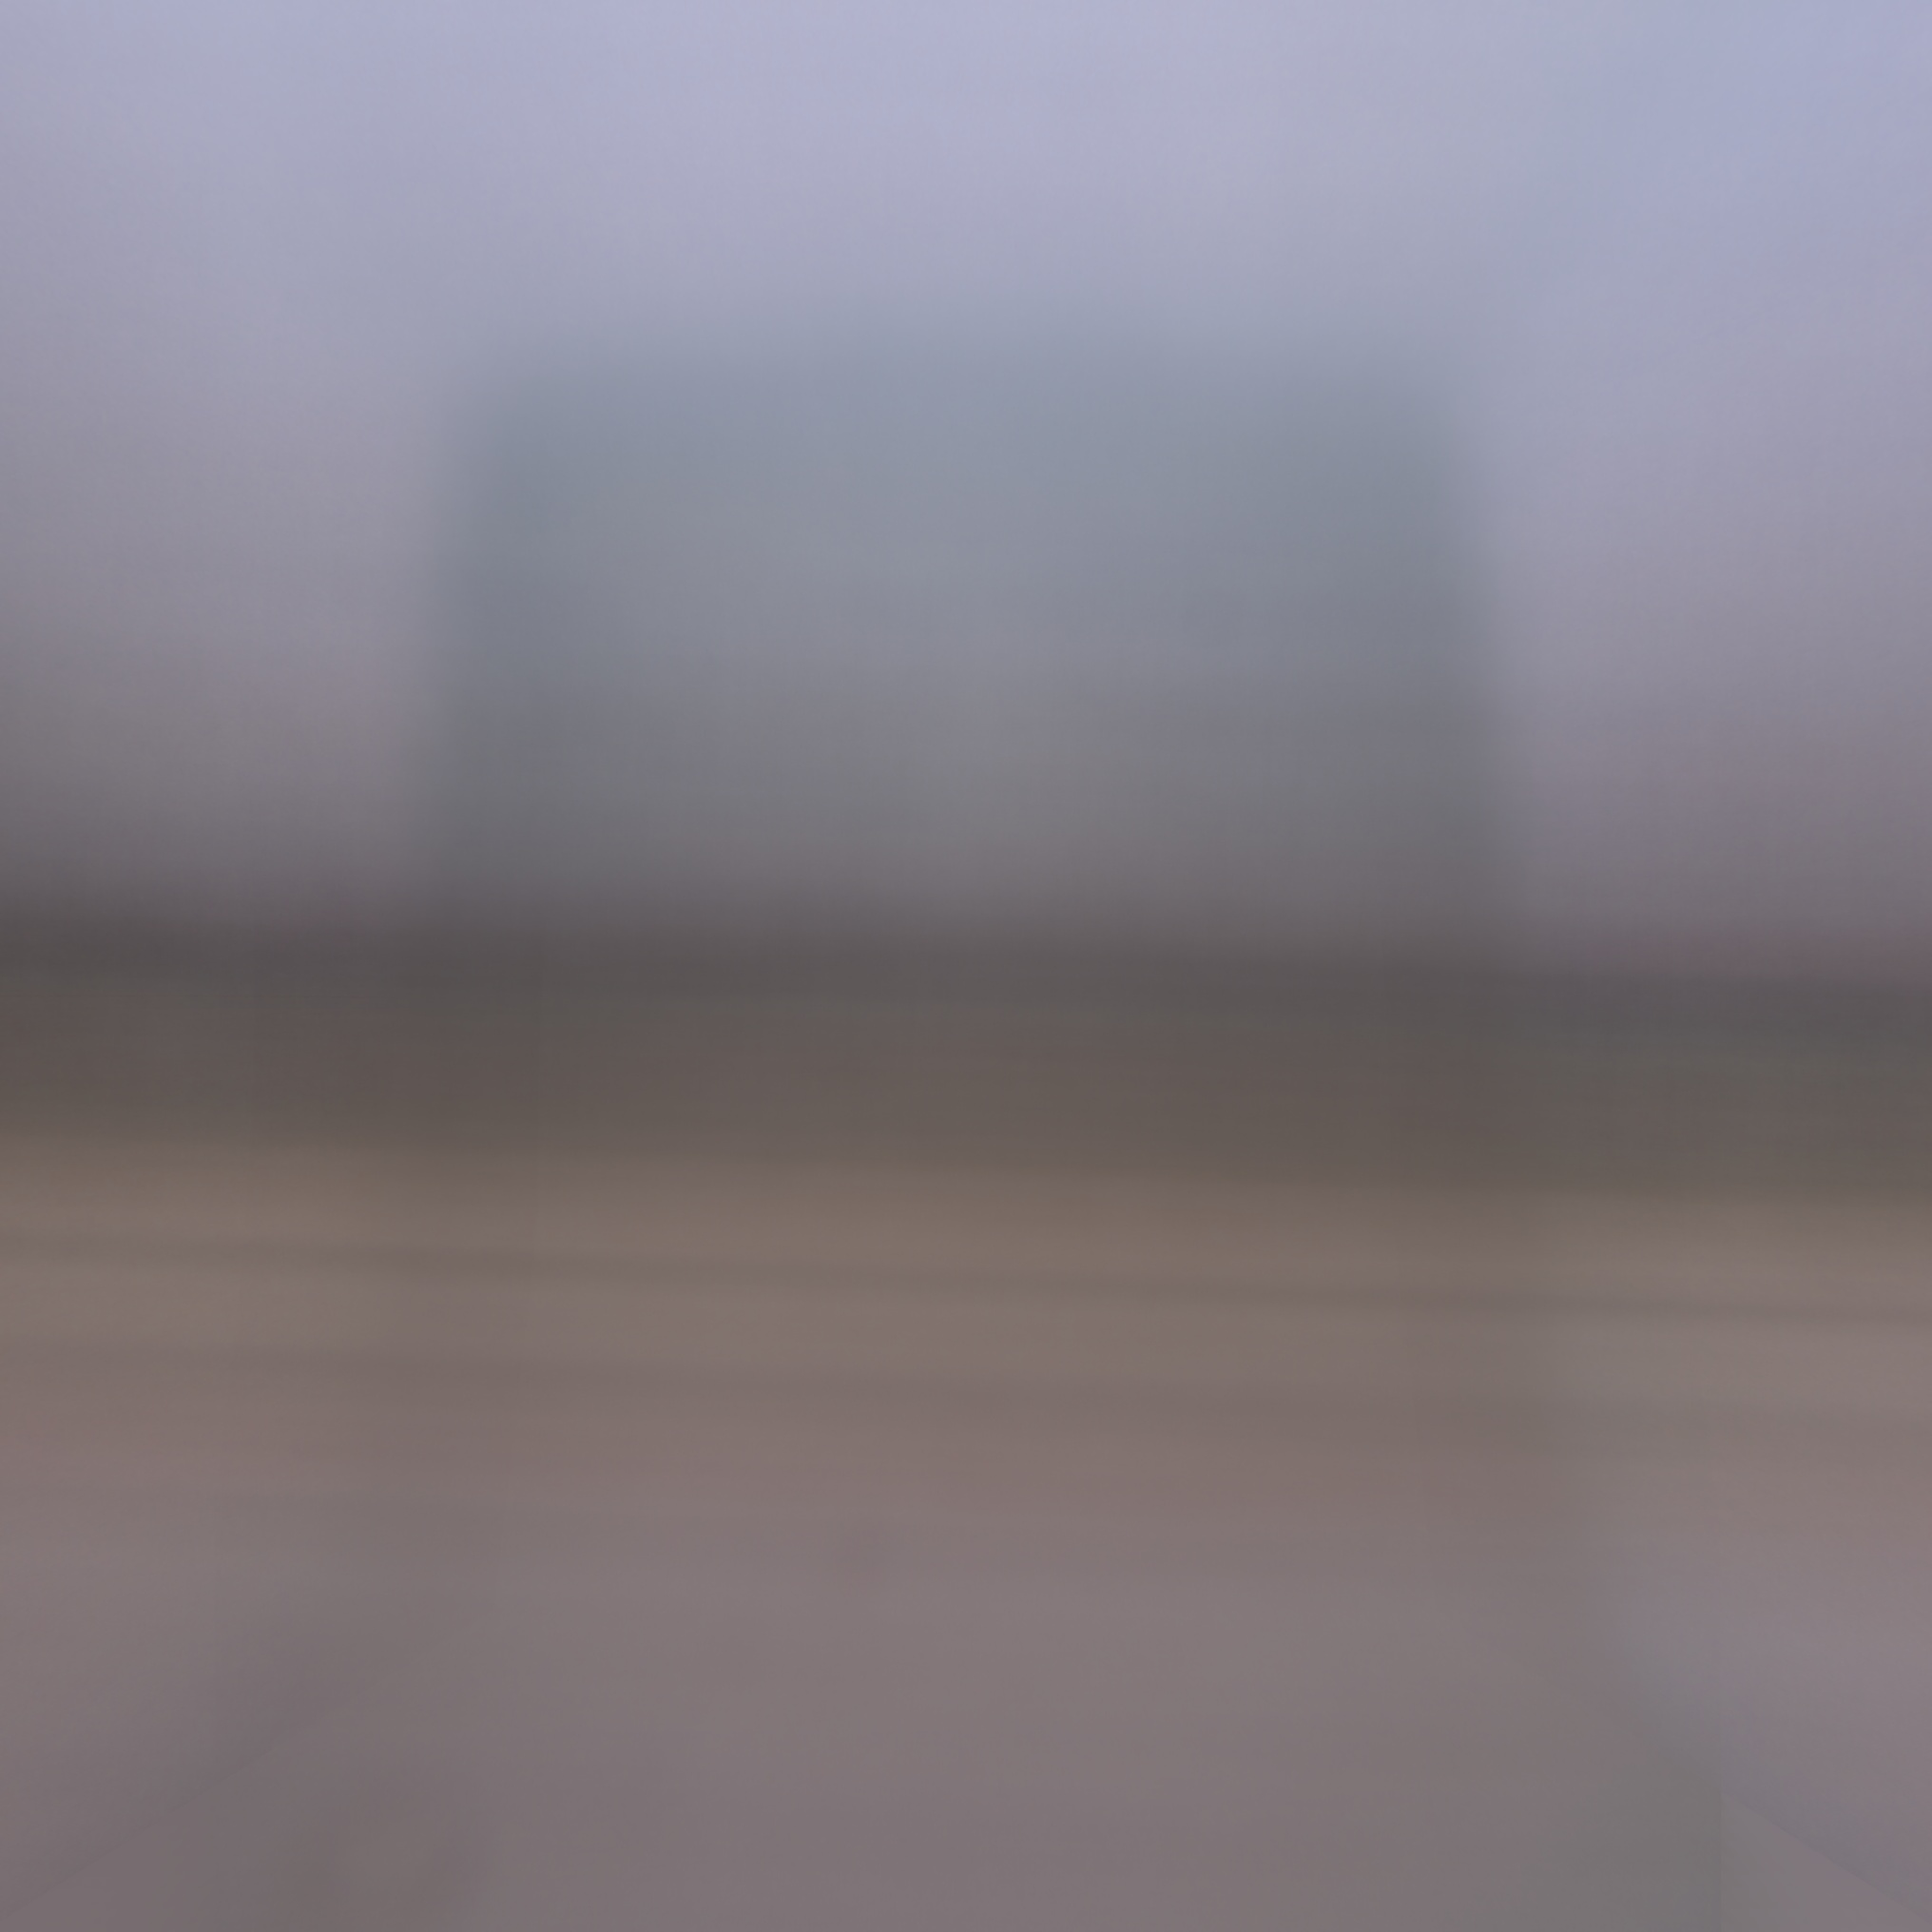
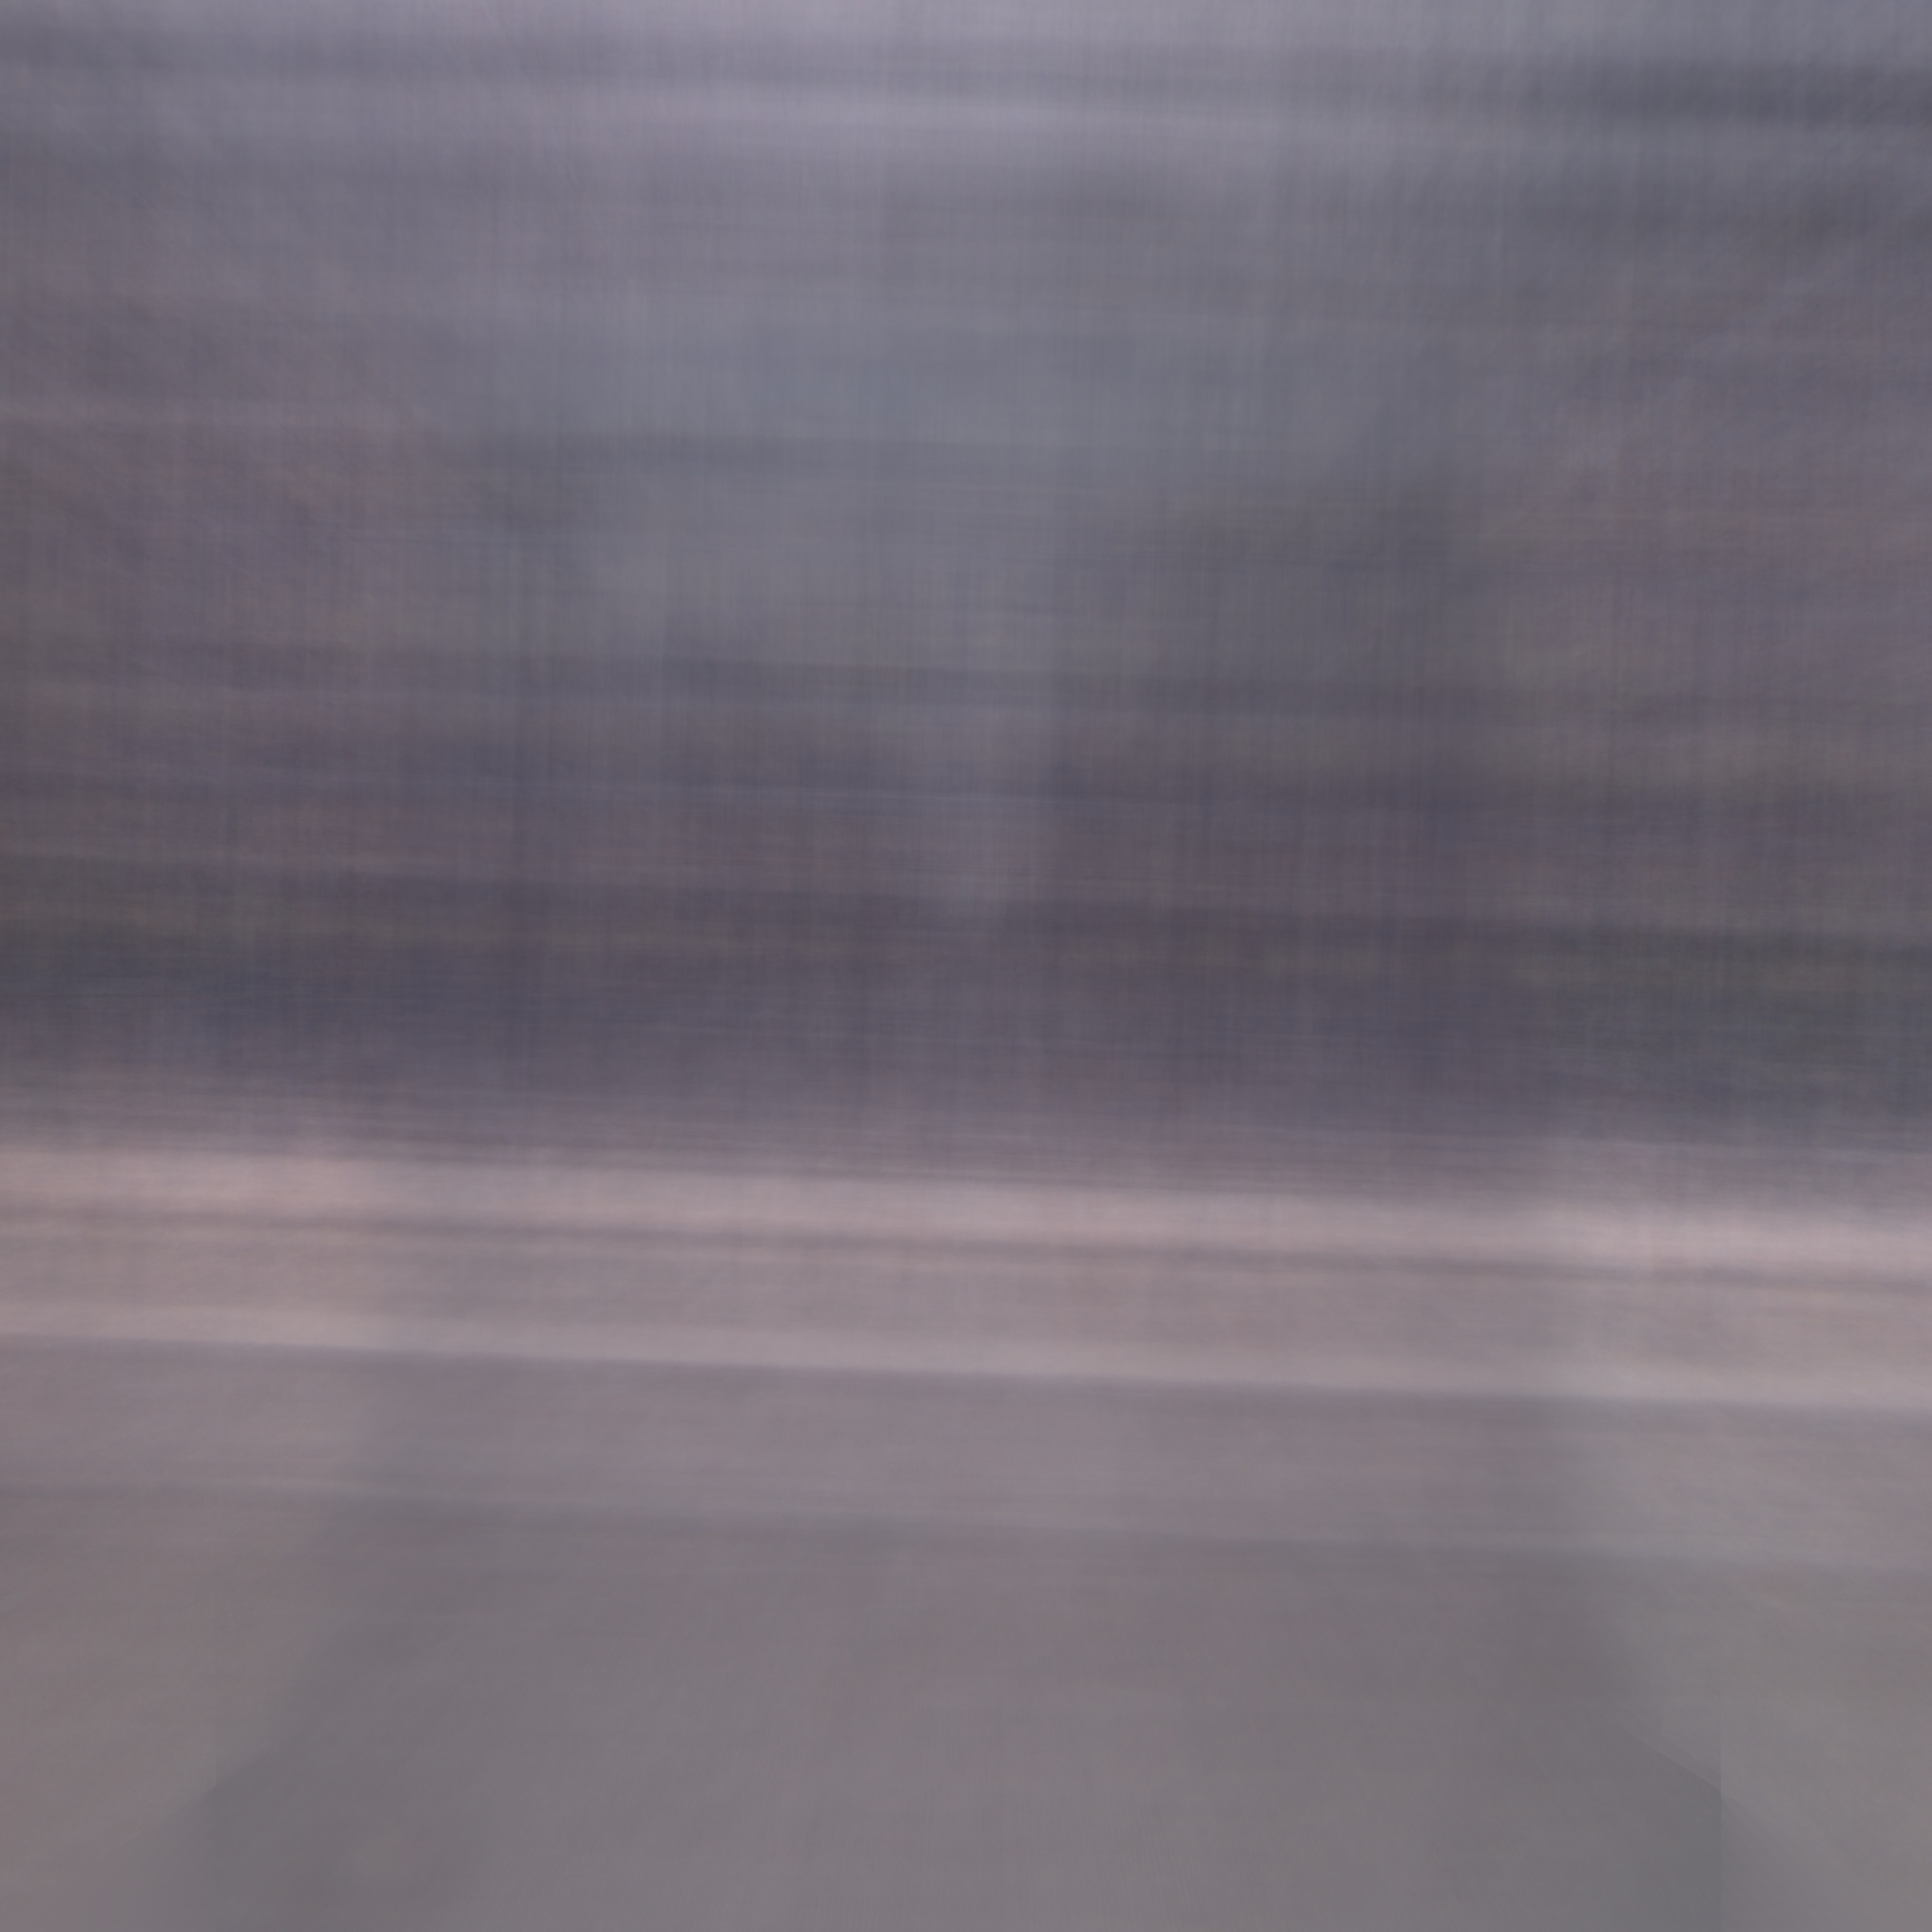
'gaussian'

diff --git a/code/average_img.py b/code/average_img.py
@@ -4,20 +4,26 @@ import numpy as np
 import matplotlib.pyplot as plt
 
 
-def average_image(path, shape, save):
+def average_image(path, shape, save, N):
+
     images = os.listdir(path)
     aggregate = np.zeros(shape)
     filename = 'average_img_cam' + path[-1] + '.jpg'
-    for image in images:
-        aggregate += cv2.imread(os.path.join(path, image), cv2.IMREAD_COLOR)
 
-    average = aggregate / len(images)
+    index = np.random.choice(len(images)-N, 1, replace=False)  # randomly sample N continuous photo from all images
+    # print(index)
+
+    for i in range(N):
+        aggregate += cv2.imread(os.path.join(path, images[index[0]+i]), cv2.IMREAD_COLOR)
+
+    average = aggregate / N
     cv2.imwrite(os.path.join(save, filename), average)
-
+    print('saved!')
 
 if __name__ == '__main__':
 
-    img_shape = (2032, 2032, 3)
+    img_shape = (2032, 2032, 3)  # shape of the image
+    num = 200  # number of samples to take
 
     # pls change to your own directory
     path_to_data = 'D:/Northwestern University/2020Spring/Geospatial Visualization/HW/HW1/data/'
@@ -28,4 +34,4 @@ if __name__ == '__main__':
     for cam in cams:
         path_to_cam = os.path.join(path_to_data, cam)
         # print(path_to_cam)
-        average_image(path_to_cam, img_shape, save_path)
+        average_image(path_to_cam, img_shape, save_path, num)

diff --git a/code/gaussian_blur.py b/code/gaussian_blur.py
@@ -1,0 +1,27 @@
+import cv2
+import matplotlib.pyplot as plt
+import os
+
+
+def gaussian_blur(path, k_size, sigma, save):
+    images = os.listdir(path)
+    i = 0
+    for image in images:
+        if image.endswith('.jpg'):
+            img = cv2.imread(os.path.join(path, image), cv2.IMREAD_COLOR)
+
+            img = cv2.GaussianBlur(img, k_size, sigma)
+            cv2.imwrite(os.path.join(save, f'gaussian_blur{i}.jpg'), img)
+            i += 1
+
+
+if __name__ == '__main__':
+    kernel_size = (5, 5)
+    sigma = 1
+
+    path_to_data = 'D:/Northwestern University/2020Spring/Geospatial ' \
+                   'Visualization/HW/HW1/Smear-Detection/results/average_image'
+    save_path = 'D:/Northwestern University/2020Spring/Geospatial ' \
+                'Visualization/HW/HW1/Smear-Detection/results/gaussian_blur'
+
+    gaussian_blur(path_to_data, kernel_size, sigma, save_path)
